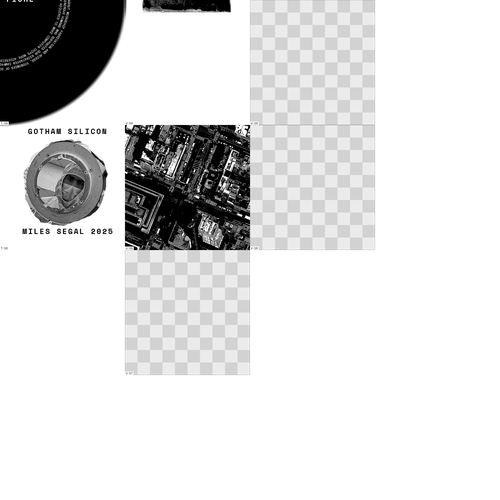
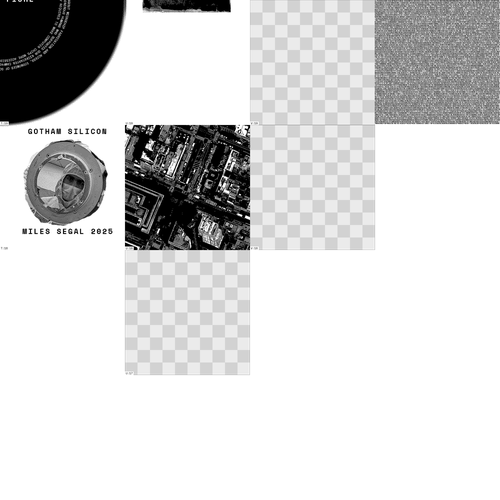
Added pi parcel. Tried to add parcel labels, but not working at all must go to sleep.

Changed region(s): [[0.75, 0.0, 1.0, 0.27]]

diff --git a/docs/app.js b/docs/app.js
@@ -824,8 +824,16 @@
 
   // --- Parcel Labels Layer
   // Create labels for each parcel (A1 in lower left to AL38 in upper right)
+  // Labels are centered in each parcel, thick blocky font, red with 70% transparency
   
-  const labelsLayer = L.layerGroup();
+  // Create a custom pane for parcel labels so they render ABOVE tiles
+  // Default panes: tilePane (z-index 200), overlayPane (z-index 400)
+  // We need z-index > 200 to be above tiles
+  map.createPane('parcelLabelsPane');
+  map.getPane('parcelLabelsPane').style.zIndex = 250;
+  
+  const parcelLabelsLayer = L.layerGroup();
+  const parcelLabelMarkers = []; // Store markers for zoom-based scaling
   
   // Loop through all parcels in the 38x38 grid
   for (let row = 0; row < PARCEL_ROWS; row++) {
@@ -837,28 +845,56 @@
       const parcelX = col - PARCEL_COLS / 2;
       const parcelY = row - PARCEL_ROWS / 2;
       
-      // Calculate position of lower-left corner of parcel in map units
-      // Remember: y-axis is flipped, so "lower" means smaller y value
-      const x = parcelX * mapunit_per_parceltile;
-      const y = parcelY * mapunit_per_parceltile;
+      // Calculate position at the CENTER of the parcel in map units
+      const x = (parcelX + 0.5) * mapunit_per_parceltile;  // +0.5 to center
+      const y = (parcelY + 0.5) * mapunit_per_parceltile;  // +0.5 to center
       
       // Create a DivIcon for the text label
       const icon = L.divIcon({
-        className: 'parcel-label',
-        html: label,
+        className: 'parcel-label-id',
+        html: `<span class="parcel-label-text">${label}</span>`,
         iconSize: null,  // Let CSS control size
-        iconAnchor: [0, 0]  // Anchor at top-left of icon (will be positioned at lower-left of parcel)
+        iconAnchor: null  // Will be centered via CSS transform
       });
       
-      // Create marker at the lower-left corner of the parcel
+      // Create marker at the center of the parcel
       const marker = L.marker([y, x], {
         icon: icon,
-        interactive: false  // Don't block map interactions
+        interactive: false,  // Don't block map interactions
+        pane: 'parcelLabelsPane'  // Use custom pane to render above tiles
       });
       
-      labelsLayer.addLayer(marker);
+      parcelLabelsLayer.addLayer(marker);
+      parcelLabelMarkers.push(marker);
     }
   }
+  
+  // Function to update label font sizes based on zoom level
+  // At zoom 6, one parcel = 500px screen pixels, so we want font ~250px (50% of parcel)
+  // At other zooms, scale proportionally
+  function updateParcelLabelSize() {
+    const zoom = map.getZoom();
+    // Calculate font size: at zoom 6, we want 250px (50% of 500px parcel)
+    // Each zoom level doubles/halves the size
+    const baseFontSize = 250; // Font size at zoom 6
+    const fontSize = baseFontSize * Math.pow(2, zoom - parcel_zoom);
+    
+    // Update all label elements
+    const labels = document.querySelectorAll('.parcel-label-text');
+    labels.forEach(label => {
+      label.style.fontSize = fontSize + 'px';
+    });
+  }
+  
+  // Update label sizes when layer is added or zoom changes
+  parcelLabelsLayer.on('add', () => {
+    updateParcelLabelSize();
+    map.on('zoom', updateParcelLabelSize);
+  });
+  
+  parcelLabelsLayer.on('remove', () => {
+    map.off('zoom', updateParcelLabelSize);
+  });
 
 
   // Create a wrapper layer for the status control so it can be toggled
@@ -882,7 +918,7 @@
   const overlayLayers = {
     "Grid Lines": gridLayer,
     //"Solar System": solarSystemLayer,   // peope should discover this, not see it in the menu!
-    //"Parcel Labels": labelsLayer,   // Needs work
+    //"Parcel Labels": parcelLabelsLayer,  // TODO:TOTOALLY NOIT WORKING!!!
     "Status Display": statusControlLayer,    // not really neeeded anymore now that this info is in the URL
     "Scale Bar": scaleControlLayer,
     //"Debug Tiles": debugLayer,

diff --git a/docs/style.css b/docs/style.css
@@ -75,3 +75,24 @@ body {
   white-space: nowrap;
   pointer-events: none;                             /* Don't block clicks on parcels */
 }
+
+/* Parcel ID labels - thick blocky font, red with 70% transparency, centered */
+.parcel-label-id {
+  pointer-events: none;                             /* Don't block map interactions */
+  /* Center the label on its anchor point */
+  position: absolute;
+  transform: translate(-50%, -50%);
+  -webkit-transform: translate(-50%, -50%);
+}
+
+.parcel-label-text {
+  font-family: Impact, 'Arial Black', sans-serif;   /* Thick and blocky font */
+  font-weight: 900;                                 /* Extra bold for thickness */
+  color: rgba(255, 0, 0, 0.3);                      /* Red with 70% transparency */
+  white-space: nowrap;
+  pointer-events: none;                             /* Don't block map interactions */
+  text-align: center;
+  display: block;
+  line-height: 1;
+  /* Font size will be set dynamically by JavaScript based on zoom level */
+}

diff --git a/make-pi-parcel.py b/make-pi-parcel.py
@@ -1,0 +1,164 @@
+from PIL import Image
+import mpmath
+
+# Written entirely by Claude Sonnet 4.5 with this these prompts (i did not need to edit it at all):
+
+# the goal is to create a 500x500 pixel monochrome PNG file that contains as many legible digits of 
+# pi as possible. I can run python programs locally.
+
+# those digits are not readable! lets switch to a 6 pixel tall font, 1 pixel wide for the chars "1" 
+# and "." and 3 pixels wide for all others. a single pixel space between adjecent lines and letters.
+
+# Set precision high enough to get many digits
+mpmath.mp.dps = 50000
+
+# Get pi digits as string (keep the decimal point)
+pi_str = str(mpmath.pi)
+
+# Image settings
+img_size = 500
+img = Image.new('1', (img_size, img_size), 1)  # monochrome, white background
+pixels = img.load()
+
+# Custom 6-pixel tall bitmap font (3 pixels wide, except 1 and . which are 1 pixel wide)
+# Each digit is represented as a list of rows (top to bottom)
+# 1 = black pixel, 0 = white pixel
+font = {
+    '0': [
+        [1,1,1],
+        [1,0,1],
+        [1,0,1],
+        [1,0,1],
+        [1,0,1],
+        [1,1,1]
+    ],
+    '1': [
+        [1],
+        [1],
+        [1],
+        [1],
+        [1],
+        [1]
+    ],
+    '2': [
+        [1,1,1],
+        [0,0,1],
+        [1,1,1],
+        [1,0,0],
+        [1,0,0],
+        [1,1,1]
+    ],
+    '3': [
+        [1,1,1],
+        [0,0,1],
+        [1,1,1],
+        [0,0,1],
+        [0,0,1],
+        [1,1,1]
+    ],
+    '4': [
+        [1,0,1],
+        [1,0,1],
+        [1,1,1],
+        [0,0,1],
+        [0,0,1],
+        [0,0,1]
+    ],
+    '5': [
+        [1,1,1],
+        [1,0,0],
+        [1,1,1],
+        [0,0,1],
+        [0,0,1],
+        [1,1,1]
+    ],
+    '6': [
+        [1,1,1],
+        [1,0,0],
+        [1,1,1],
+        [1,0,1],
+        [1,0,1],
+        [1,1,1]
+    ],
+    '7': [
+        [1,1,1],
+        [0,0,1],
+        [0,0,1],
+        [0,0,1],
+        [0,0,1],
+        [0,0,1]
+    ],
+    '8': [
+        [1,1,1],
+        [1,0,1],
+        [1,1,1],
+        [1,0,1],
+        [1,0,1],
+        [1,1,1]
+    ],
+    '9': [
+        [1,1,1],
+        [1,0,1],
+        [1,1,1],
+        [0,0,1],
+        [0,0,1],
+        [1,1,1]
+    ],
+    '.': [
+        [0],
+        [0],
+        [0],
+        [0],
+        [0],
+        [1]
+    ]
+}
+
+def draw_char(img, x, y, char):
+    """Draw a character at position (x, y) and return the width used"""
+    if char not in font:
+        return 0
+    
+    bitmap = font[char]
+    width = len(bitmap[0])
+    
+    for row_idx, row in enumerate(bitmap):
+        for col_idx, pixel in enumerate(row):
+            px = x + col_idx
+            py = y + row_idx
+            if px < img_size and py < img_size:
+                pixels[px, py] = 1 - pixel  # 0 = black, 1 = white
+    
+    return width
+
+# Draw digits
+x, y = 0, 0
+digit_count = 0
+
+for char in pi_str:
+    # Check if character fits in current row
+    char_width = 1 if char in '1.' else 3
+    
+    if x + char_width > img_size:
+        # Move to next line
+        x = 0
+        y += 6 + 1  # 6 pixels tall + 1 pixel space
+        
+        if y + 6 > img_size:
+            # Image is full
+            break
+    
+    # Draw the character
+    width_used = draw_char(img, x, y, char)
+    x += width_used + 1  # Add 1 pixel space after character
+    digit_count += 1
+
+print(f"Drew {digit_count} characters (including decimal point)")
+print(f"Digits of pi: {digit_count - 1}")  # Subtract 1 for the decimal point
+
+# Save the image
+img.save('pi_digits_500x500.png')
+print("Saved as pi_digits_500x500.png")
+
+# Print first 100 characters for verification
+print(f"\nFirst 100 chars: {pi_str[:100]}")
